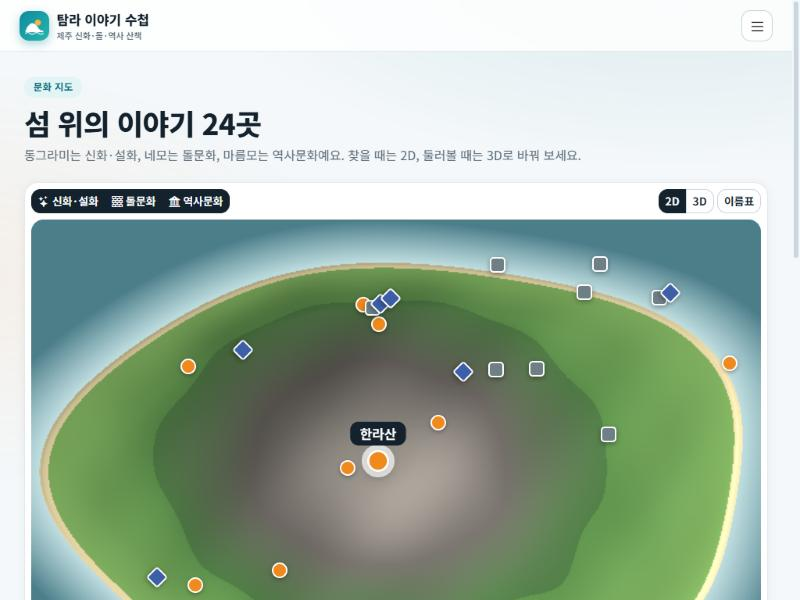
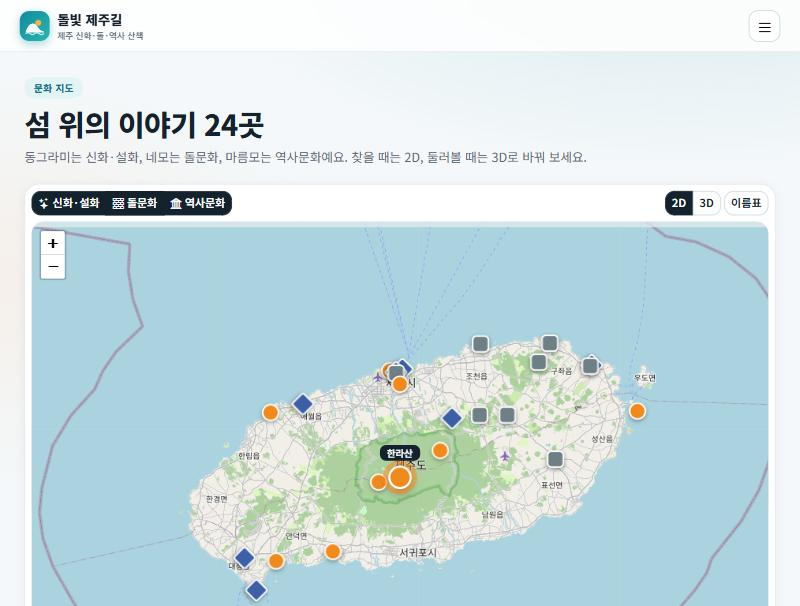
feat: 2D 지도를 OpenStreetMap 실제 지도(Leaflet)로 교체
- RealMap 컴포넌트: 표지·내 위치·산책 코스선, 선택 장소로 이동
- 문화 지도, 이야기 산책, 역사문화 위치 탭에 적용
- README 설명·스크린샷 갱신, OSM 타일 사용 안내

diff --git a/src/styles/theme.css b/src/styles/theme.css
@@ -165,21 +165,23 @@ a.stone-card:hover, .myth-card:hover, .kind-card:hover { transform: translateY(-
 .chip.on small { color: #8fe3ee; }
 .layer-btn { font-weight: 600; }
 
-.flat { position: relative; width: 100%; border-radius: 16px; overflow: hidden; background: #c4e2e4; box-shadow: inset 0 0 0 1px rgba(19, 34, 45, .08); }
-.flat canvas { position: absolute; inset: 0; width: 100%; height: 100%; display: block; }
-.flat__route { position: absolute; inset: 0; width: 100%; height: 100%; pointer-events: none; }
-.flat__route polyline { fill: none; stroke: #fff; stroke-width: 4; stroke-dasharray: 8 6; stroke-linecap: round; stroke-linejoin: round; filter: drop-shadow(0 1px 2px rgba(0, 0, 0, .5)); }
-.flat__pin { position: absolute; z-index: 2; width: 20px; height: 20px; padding: 0; transform: translate(-50%, -50%); display: grid; place-items: center; border: 2.5px solid #fff; background: var(--k); color: #fff; font-size: 11px; font-weight: 800; cursor: pointer; transition: transform .15s; box-shadow: 0 2px 6px rgba(0, 0, 0, .35); }
-.flat__pin--myth { border-radius: 50%; }
-.flat__pin--stone { border-radius: 5px; }
-.flat__pin--history { border-radius: 4px; rotate: 45deg; }
-.flat__pin--history b { rotate: -45deg; }
-.flat__pin b { font-style: normal; line-height: 1; }
-.flat__pin:hover { transform: translate(-50%, -50%) scale(1.25); z-index: 4; }
-.flat__pin.on { z-index: 5; transform: translate(-50%, -50%) scale(1.4); box-shadow: 0 0 0 5px rgba(255, 255, 255, .7), 0 4px 10px rgba(0, 0, 0, .35); }
-.flat__pin span { position: absolute; left: 50%; top: -28px; translate: -50% 0; white-space: nowrap; pointer-events: none; background: var(--ink); color: #fff; border-radius: 8px; padding: 1px 9px; font-size: 12px; font-weight: 600; }
-.flat__pin--history span { rotate: -45deg; top: -10px; left: -6px; translate: -100% -80%; }
-.flat__me { position: absolute; z-index: 3; width: 16px; height: 16px; border-radius: 50%; background: #ff3d57; border: 3px solid #fff; transform: translate(-50%, -50%); box-shadow: 0 0 0 0 rgba(255, 61, 87, .6); animation: ping 1.8s infinite; }
+.flat { position: relative; width: 100%; aspect-ratio: 640 / 444; min-height: 320px; border-radius: 16px; overflow: hidden; background: #dfeaec; box-shadow: inset 0 0 0 1px rgba(19, 34, 45, .08); }
+.flat__map { position: absolute; inset: 0; font-family: var(--font); z-index: 0; }
+.flat .leaflet-container { font-family: var(--font); background: #dfeaec; }
+.flat .leaflet-control-attribution { font-size: 11px; }
+.rpin-wrap { background: none; border: 0; }
+.rpin { position: relative; display: grid; place-items: center; width: 22px; height: 22px; border: 2.5px solid #fff; background: var(--k); color: #fff; font-size: 11px; font-weight: 800; box-shadow: 0 2px 6px rgba(0, 0, 0, .4); transition: transform .15s; }
+.rpin b { font-style: normal; line-height: 1; }
+.rpin--myth { border-radius: 50%; }
+.rpin--stone { border-radius: 6px; }
+.rpin--history { border-radius: 4px; transform: rotate(45deg); }
+.rpin--history b { transform: rotate(-45deg); }
+.rpin:hover { transform: scale(1.2); }
+.rpin--history:hover { transform: rotate(45deg) scale(1.2); }
+.rpin.on { box-shadow: 0 0 0 5px rgba(255, 138, 31, .55), 0 4px 10px rgba(0, 0, 0, .4); transform: scale(1.35); }
+.rpin--history.on { transform: rotate(45deg) scale(1.35); }
+.rpin__label { position: absolute; left: 50%; top: -30px; transform: translateX(-50%); white-space: nowrap; pointer-events: none; font-style: normal; background: var(--ink); color: #fff; border-radius: 8px; padding: 1px 9px; font-size: 12px; font-weight: 600; }
+.rme { display: block; width: 18px; height: 18px; border-radius: 50%; background: #ff3d57; border: 3px solid #fff; box-shadow: 0 0 0 0 rgba(255, 61, 87, .6); animation: ping 1.8s infinite; }
 @keyframes ping { to { box-shadow: 0 0 0 16px rgba(255, 61, 87, 0); } }
 
 /* ── 목록 · 카드 ── */

diff --git a/src/components/RealMap.jsx b/src/components/RealMap.jsx
@@ -1,0 +1,77 @@
+import { useEffect, useRef } from 'react'
+import L from 'leaflet'
+import 'leaflet/dist/leaflet.css'
+import { KINDS } from '../data/places'
+
+// 실제 지도(OpenStreetMap 타일 + Leaflet). 장소 표지, 내 위치, 산책 코스 선을 올립니다.
+// 타일은 인증키 없이 쓰는 OSM 공개 타일이고, 지도 오른쪽 아래에 출처를 표시합니다.
+const JEJU = [33.38, 126.55]
+const ISLAND = [[33.1, 126.14], [33.6, 126.98]]
+
+const pinIcon = (p, num, on, label) => L.divIcon({
+  className: 'rpin-wrap',
+  html: `<span class="rpin rpin--${p.kind}${on ? ' on' : ''}" style="--k:${KINDS[p.kind].color}"><b>${num ?? ''}</b></span>${label ? `<em class="rpin__label">${p.name.replace(/[<>&]/g, '')}</em>` : ''}`,
+  iconSize: [22, 22],
+  iconAnchor: [11, 11],
+})
+
+export default function RealMap({ places, selectedId, onPick, me, route, numbers, labels = false }) {
+  const host = useRef(null)
+  const map = useRef(null)
+  const layer = useRef(null)
+  const pick = useRef(onPick)
+  pick.current = onPick
+
+  // 지도는 한 번만 만들고, 크기가 바뀌면 다시 맞춥니다
+  useEffect(() => {
+    const m = L.map(host.current, { zoomControl: true, scrollWheelZoom: false, attributionControl: true }).fitBounds(ISLAND)
+    L.tileLayer('https://tile.openstreetmap.org/{z}/{x}/{y}.png', {
+      maxZoom: 18,
+      attribution: '© <a href="https://www.openstreetmap.org/copyright" target="_blank" rel="noreferrer">OpenStreetMap</a> 기여자',
+    }).addTo(m)
+    layer.current = L.layerGroup().addTo(m)
+    // 페이지를 스크롤하다 지도에 걸리지 않도록, 지도를 눌렀을 때만 휠 확대를 켭니다
+    m.on('click', () => m.scrollWheelZoom.enable())
+    m.on('mouseout', () => m.scrollWheelZoom.disable())
+    const ro = new ResizeObserver(() => m.invalidateSize())
+    ro.observe(host.current)
+    map.current = m
+    return () => { ro.disconnect(); m.remove(); map.current = null }
+  }, [])
+
+  // 표지·코스선·내 위치
+  useEffect(() => {
+    const g = layer.current
+    if (!g) return
+    g.clearLayers()
+    if (route?.length) {
+      const pts = [...(me ? [me] : []), ...route].map((p) => [p.lat, p.lng])
+      L.polyline(pts, { color: '#0f8b9d', weight: 4, dashArray: '8 8', opacity: 0.9 }).addTo(g)
+    }
+    places.forEach((p) => {
+      const on = p.id === selectedId
+      L.marker([p.lat, p.lng], { icon: pinIcon(p, numbers?.[p.id], on, labels || on), zIndexOffset: on ? 1000 : 0, title: p.name, keyboard: true })
+        .on('click', () => pick.current?.(p.id))
+        .addTo(g)
+    })
+    if (me) {
+      L.marker([me.lat, me.lng], { icon: L.divIcon({ className: 'rpin-wrap', html: '<i class="rme"></i>', iconSize: [18, 18], iconAnchor: [9, 9] }), zIndexOffset: 900, title: '내 위치' }).addTo(g)
+    }
+  }, [places, selectedId, me, route, numbers, labels])
+
+  // 코스는 한눈에 보이게, 고른 장소는 가운데로
+  useEffect(() => {
+    const m = map.current
+    if (!m) return
+    if (route?.length) {
+      m.fitBounds(L.latLngBounds([...(me ? [me] : []), ...route].map((p) => [p.lat, p.lng])), { padding: [48, 48], maxZoom: 13 })
+    }
+  }, [route, me])
+  useEffect(() => {
+    const m = map.current
+    const p = places.find((x) => x.id === selectedId)
+    if (m && p && !route?.length) m.panTo([p.lat, p.lng], { animate: true })
+  }, [selectedId]) // eslint-disable-line react-hooks/exhaustive-deps
+
+  return <div className="flat" role="region" aria-label="제주 지도"><div ref={host} className="flat__map" /></div>
+}

diff --git a/src/pages/Walk.jsx b/src/pages/Walk.jsx
@@ -1,7 +1,7 @@
 import { useMemo, useState } from 'react'
 import { Form, ToggleButton, ToggleButtonGroup } from 'react-bootstrap'
 import { Link, useSearchParams } from 'react-router-dom'
-import FlatMap from '../components/FlatMap'
+import RealMap from '../components/RealMap'
 import { KindBadge, LocateBar, NearbyTour, SaveButton, routeUrl } from '../components/ui'
 import { KINDS, KIND_KEYS, placeById } from '../data/places'
 import { MODES, TIME_OPTIONS, buildCourse, fmtMin, planFromIds } from '../lib/course'
@@ -127,7 +127,7 @@ export default function Walk() {
         <div className="row g-3">
           <div className="col-xl-5 order-xl-2">
             <div className="stone-card p-2 walk-side">
-              <FlatMap places={stops.map((s) => s.place)} numbers={numbers} me={start} route={stops.map((s) => s.place)} />
+              <RealMap places={stops.map((s) => s.place)} numbers={numbers} me={start} route={stops.map((s) => s.place)} />
               <ul className="walk-sum">
                 <li><b>{stops.length}곳</b>코스</li>
                 <li><b>{fmtMin(plan.total)}</b>이동 {fmtMin(plan.travel)} + 머묾 {fmtMin(plan.stay)}</li>

diff --git a/src/pages/MapPage.jsx b/src/pages/MapPage.jsx
@@ -2,7 +2,7 @@ import { useState } from 'react'
 import { ToggleButton, ToggleButtonGroup } from 'react-bootstrap'
 import { useNavigate } from 'react-router-dom'
 import JejuMapView from '../components/JejuMapView'
-import FlatMap from '../components/FlatMap'
+import RealMap from '../components/RealMap'
 import { LocateBar, NearbyTour, PlaceBody, SaveButton, distanceLabel, routeUrl } from '../components/ui'
 import { KINDS, KIND_KEYS, PLACES, placeById } from '../data/places'
 import { distanceKm } from '../lib/geo'
@@ -54,7 +54,7 @@ export default function MapPage() {
                   showLabels={labels} resetNonce={reset} me={me} />
               </div>
             ) : (
-              <FlatMap places={visible} selectedId={selectedId} onPick={select} me={me} labels={labels} />
+              <RealMap places={visible} selectedId={selectedId} onPick={select} me={me} labels={labels} />
             )}
             <LocateBar className="mt-2 px-1" />
           </div>

diff --git a/src/components/HistoryPlaces.jsx b/src/components/HistoryPlaces.jsx
@@ -3,7 +3,7 @@ import { Form } from 'react-bootstrap'
 import { fetchHistoryPlaces } from '../api/client'
 import { distanceKm, fmtKm } from '../lib/geo'
 import { useAppStore } from '../store/useAppStore'
-import FlatMap from './FlatMap'
+import RealMap from './RealMap'
 import { ApiState, LocateBar, routeUrl } from './ui'
 
 // 공공데이터포털 '제주역사문화위치정보' — 이름·주소·좌표를 받아 2D 지도와 목록으로 보여 줍니다
@@ -39,7 +39,7 @@ export default function HistoryPlaces() {
       {st.data && items.length > 0 && (
         <div className="row g-3">
           <div className="col-lg-6">
-            <FlatMap places={items} selectedId={sel} onPick={setSel} me={me} />
+            <RealMap places={items} selectedId={sel} onPick={setSel} me={me} />
           </div>
           <div className="col-lg-6">
             <ul className="hist-list">

diff --git a/README.md b/README.md
@@ -56,7 +56,7 @@
 <td width="50%"><img src="docs/stone.jpg" alt="돌하르방 3D" /></td>
 </tr>
 <tr>
-<td align="center"><b>2D · 3D 문화 지도</b><br/>같은 지형 함수로 그린 2D 지도, 오름 368개의 3D 지도.</td>
+<td align="center"><b>2D · 3D 문화 지도</b><br/>OpenStreetMap 실제 지도 위의 2D, 오름 368개의 3D 지도.</td>
 <td align="center"><b>돌하르방 3D</b><br/>현무암 질감 모델. 한낮·노을·달밤 조명, 감귤 소품.</td>
 </tr>
 </table>
@@ -103,7 +103,7 @@ project/
 │  ├─ router.jsx          메뉴(NAV_ITEMS) + 주소별 페이지
 │  ├─ layouts/            공통 틀 (상단 내비, 모바일 탭바·Offcanvas, 계정 버튼)
 │  ├─ pages/              Home · MapPage · Myth · Stone · Walk · Guide · Places · Notebook · Login
-│  ├─ components/         ThreeStage · JejuMapView(3D) · FlatMap(2D) · ui · MythArchive · RelicShelf · HistoryPlaces
+│  ├─ components/         ThreeStage · JejuMapView(3D) · RealMap(2D 실제 지도) · ui · MythArchive · RelicShelf · HistoryPlaces
 │  ├─ scenes/             terrain · jejuMap · harbang · helpers  (three.js)
 │  ├─ data/               places(24곳) · walk(현장 정보) · stones(돌문화 해설)
 │  ├─ store/              Zustand — useAppStore(수첩·도장·지도) · useAuthStore(로그인)
@@ -140,6 +140,8 @@ npm run dev                    # http://localhost:5173
 2. **Settings → API**의 Project URL과 `anon` `public` 키를 `.env.local`에 넣습니다. (`service_role` 키는 넣지 마세요)
 3. 이메일 확인을 켜 두었다면 가입 후 메일의 링크를 눌러야 로그인됩니다.
 
+> **2D 지도**는 Leaflet + OpenStreetMap 타일(인증키 없음)입니다. 지도 오른쪽 아래에 출처를 표시하며, 많은 트래픽을 받는 서비스로 공개할 때는 [OSM 타일 사용 정책](https://operations.osmfoundation.org/policies/tiles/)에 맞게 자체 타일 서버나 상용 타일로 바꾸세요.
+
 ## 🌐 사용한 API
 
 | API | 엔드포인트 | 화면 |
@@ -154,7 +156,7 @@ npm run dev                    # http://localhost:5173
 
 ## 🧠 구현 메모
 
-- **지형 생성** — 외부 모델 없이 높이함수(섬 윤곽 + 한라산 가우시안 + 기복)로 메시를 만들고, 같은 함수로 2D 지도도 그립니다. 오름 368개는 고정 시드의 `InstancedMesh`입니다.
+- **지형 생성** — 외부 모델 없이 높이함수(섬 윤곽 + 한라산 가우시안 + 기복)로 메시를 만들고. 오름 368개는 고정 시드의 `InstancedMesh`입니다.
 - **3D ↔ React 연결** — `ThreeStage`가 렌더 루프·리사이즈·정리(dispose)를 맡고, 장면은 React 값을 담은 `live` ref를 읽습니다.
 - **코스 알고리즘** — 현재 위치에서 시간 안에 들어가는 후보 중 `이동 시간 + 같은 갈래 가산점 − 아이 동반 가산점`이 가장 낮은 곳을 반복해서 고릅니다. 화면과 서버(AI 도구)가 같은 함수를 씁니다.
 - **에이전트** — 서버가 `plan_course`·`get_weather`·`nearby_tour`·`search_places` 도구를 Claude에 노출하고, `tool_use`가 끝날 때까지 최대 6번 반복합니다. 코스의 사실(시간·거리·장소)은 도구 결과에서만 가져오게 지시했습니다.
